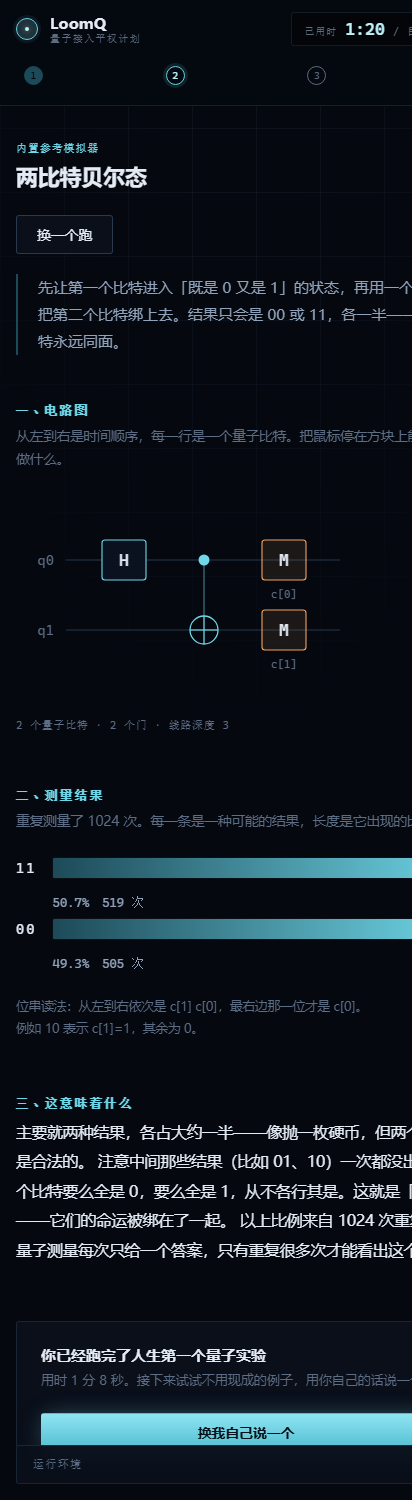
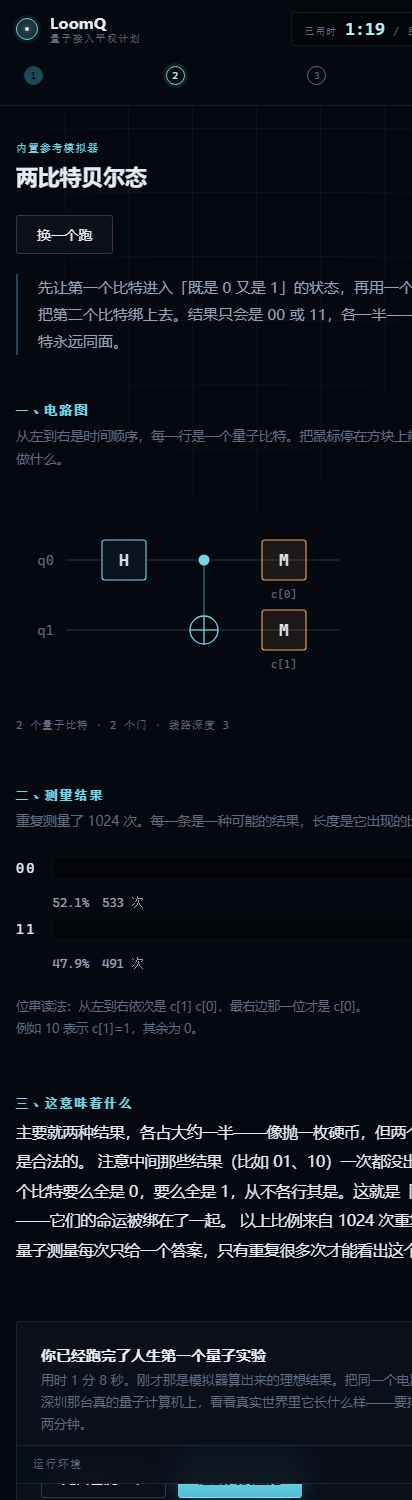
体验: 按实测反馈修真机入口，并把「这到底有什么用」写进产品
被试反馈两句话，都指向真缺陷。

一句是「真机的跑不了」。后端其实是通的（复现任务 G-260810-0012）。
问题在结果页那条死板的直线：必须先完成「自己说一个」，真机按钮才肯出现，
在那之前只能自己翻开右下角折叠着的「运行环境」换后端。
判据里「在真实量子机上完成」是硬指标，通往它的路不该藏在二级菜单。
现在跑完第一个示例真机按钮就排在首位，另给一个次级按钮不挡别的路。
排队那两分钟也不再一声不吭——加了秒表，证明页面还活着。

另一句是「还是没懂在干什么」。这是产品的判决，不是用户的问题：
页面从头到尾没说过自己是什么。开场补一段可展开的定位，
验收之后补一整块结语，讲清这条链路上原本每一环都要什么专门知识，
以及一句实话——今天的量子计算机还派不上用场，这件作品的价值
是证明路走得通，不是让谁今天就用它干成活。
把话说在验收之后，是因为此刻他有亲手做过的经验垫底才接得住。

selftest_web.py 62 项仍全过。

diff --git a/starter_kit/loomq/webui/app.js b/starter_kit/loomq/webui/app.js
@@ -215,12 +215,32 @@ async function run(payload, titleHint) {
   }
   if (started.error) return fail(started.error);
 
+  // 真机排队要一两分钟，这期间后端一句进度也不会再吐。没有任何动静的
+  // 一百秒足以让人认为页面死了然后关掉——被试就是这么丢掉真机那一步的。
+  // 秒表本身不提供信息，但它证明这个页面还活着。
+  const t0 = Date.now();
+  const waitBox = $('running-wait');
+  waitBox.hidden = body.backend !== 'spinq_cloud';
+  const tick = setInterval(() => {
+    const s = Math.floor((Date.now() - t0) / 1000);
+    waitBox.textContent = `已等待 ${s} 秒　排队通常一到两分钟，页面会一直等，不用关`;
+  }, 1000);
+
+  try {
+    return await pollUntilDone(started.job);
+  } finally {
+    clearInterval(tick);
+    waitBox.hidden = true;
+  }
+}
+
+async function pollUntilDone(jobId) {
   let seen = 0;
   for (;;) {
     await wait(700);
     let job;
     try {
-      job = await api.job(started.job);
+      job = await api.job(jobId);
     } catch {
       return fail('取不到运行状态，本地服务可能已经停了。');
     }
@@ -295,35 +315,63 @@ function show(r) {
   paintRail();
 }
 
-/* 每次跑完都要有明确的下一步，否则用户就停在这里了 */
+/* 每次跑完都要有明确的下一步，否则用户就停在这里了。
+ *
+ * 这里曾经是一条死板的直线：必须先「自己说一个」，真机按钮才肯出现。
+ * 结果被试跑完示例想去真机，界面根本不给入口——他只能自己翻右下角那个
+ * 折叠着的「运行环境」去换后端。实测反馈就是一句「真机的跑不了」。
+ * 判据里「在真实量子机上完成」是硬指标，通往它的路不能藏在二级菜单里。
+ */
 function paintNext() {
   const hwReady = state.backends.some((b) => b.id === 'spinq_cloud' && b.ready);
   const btn = $('btn-next');
+  const alt = $('btn-alt');
+  alt.hidden = true;
+
+  const toHardware = () => {
+    $('sel-backend').value = 'spinq_cloud';
+    updateDockNote();
+    // 重放上一次的 payload，而不是拿标题回头再问一遍模型——
+    // 真机对照要成立，两边必须是同一个电路。
+    run(state.lastPayload || { example: '1' }, '正在送往真实的量子计算机');
+  };
+  const toAsk = () => go('ask');
+  const toQuiz = () => { buildQuiz(); go('quiz'); };
+
+  const setAlt = (label, fn) => {
+    alt.hidden = false;
+    alt.textContent = label;
+    alt.onclick = fn;
+  };
+
+  if (hwReady && !state.ranHardware) {
+    $('next-title').textContent = state.ran === 1
+      ? '你已经跑完了人生第一个量子实验'
+      : '到这里为止，跑的都是模拟器';
+    $('next-note').textContent =
+      `用时 ${elapsedText()}。刚才那是模拟器算出来的理想结果。` +
+      '把同一个电路送到深圳那台真的量子计算机上，看看真实世界里它长什么样——要排队约两分钟。';
+    btn.textContent = '送到真机上跑';
+    btn.onclick = toHardware;
+    setAlt(state.askedOwn ? '去验收' : '先自己说一个', state.askedOwn ? toQuiz : toAsk);
+    return;
+  }
 
   if (!state.askedOwn) {
-    $('next-title').textContent = '你已经跑完了人生第一个量子实验';
+    $('next-title').textContent = state.ranHardware
+      ? '真机你也跑过了'
+      : '你已经跑完了人生第一个量子实验';
     $('next-note').textContent = `用时 ${elapsedText()}。接下来试试不用现成的例子，用你自己的话说一个。`;
     btn.textContent = '换我自己说一个';
-    btn.onclick = () => go('ask');
+    btn.onclick = toAsk;
+    setAlt('直接去验收', toQuiz);
     return;
   }
-  if (hwReady && !state.ranHardware) {
-    $('next-title').textContent = '到这里为止，跑的都是模拟器';
-    $('next-note').textContent = '把同一个电路送到深圳那台真的量子计算机上，看看结果差在哪。要排队约两分钟。';
-    btn.textContent = '送到真机上跑';
-    btn.onclick = () => {
-      $('sel-backend').value = 'spinq_cloud';
-      updateDockNote();
-      // 重放上一次的 payload，而不是拿标题回头再问一遍模型——
-      // 真机对照要成立，两边必须是同一个电路。
-      run(state.lastPayload || { example: '1' }, '正在送往真实的量子计算机');
-    };
-    return;
-  }
+
   $('next-title').textContent = '最后一步';
   $('next-note').textContent = '三个问题，检验一下刚才发生的事你是不是真的看懂了。';
   btn.textContent = '去验收';
-  btn.onclick = () => { buildQuiz(); go('quiz'); };
+  btn.onclick = toQuiz;
 }
 
 /* ── 电路图 ─────────────────────────────────────────── */

diff --git a/starter_kit/loomq/webui/index.html b/starter_kit/loomq/webui/index.html
@@ -72,6 +72,19 @@
         <button class="btn btn--primary btn--lg" id="btn-start">读完了，开始计时</button>
         <span class="intro__hint" id="intro-hint">计时只是为了验证「五分钟够不够」，随时可以停</span>
       </div>
+
+      <details class="aside">
+        <summary>顺便一提，LoomQ 是什么</summary>
+        <p>
+          全世界的量子计算机分属好几家，每家说自己的语言——为量旋那台机器写的程序，
+          换到本源或者亚马逊的机器上要整个重写。LoomQ 是夹在中间的那层翻译：
+          一份代码进去，自动翻成三家各自的方言，结果按同一种格式回来。
+        </p>
+        <p>
+          再往上加一层：你用中文说一句话，它变成电路、跑起来，再用人话告诉你结果什么意思。
+          这个页面就是那层东西的入口。跑完最后一步，我会再跟你说一遍你到底做了什么。
+        </p>
+      </details>
     </div>
   </section>
 
@@ -90,6 +103,7 @@
     <div class="running" id="running">
       <div class="running__spin" aria-hidden="true"></div>
       <b id="running-title">正在运行</b>
+      <div class="running__wait" id="running-wait" hidden></div>
       <ul class="running__log" id="running-log"></ul>
     </div>
 
@@ -130,7 +144,10 @@
           <b id="next-title">下一步</b>
           <span id="next-note"></span>
         </div>
-        <button class="btn btn--primary" id="btn-next"></button>
+        <div class="nextbar__act">
+          <button class="btn" id="btn-alt" hidden></button>
+          <button class="btn btn--primary" id="btn-next"></button>
+        </div>
       </div>
     </div>
   </section>
@@ -159,6 +176,31 @@
     <div id="quiz"></div>
     <div class="quizfoot" id="quiz-foot" hidden>
       <p class="prose" id="quiz-verdict"></p>
+
+      <section class="coda">
+        <h3 class="coda__title">所以你刚才做的是什么</h3>
+        <p class="prose">
+          你没写一行代码。你说了一句中文，换来一个真实的量子电路；它被送进一台真的
+          量子计算机，两分钟后带回一串数据；页面告诉你哪些是电路本该给出的，
+          哪些是机器自己抖出来的噪声。
+        </p>
+        <p class="prose">
+          这条链路上，原本每一环都要专门知识：懂量子力学才写得出电路，
+          懂各家 SDK 才提交得了任务，懂实验物理才读得懂噪声。
+          LoomQ 做的事，就是把这三道门槛收进这一个页面。
+        </p>
+        <p class="prose coda__blunt">
+          说句实话：今天的量子计算机还派不上用场。你刚才连的那台只有两个量子比特，
+          跑最简单的电路都要错掉两成。它现在的处境像 1950 年代占满一整间屋子的
+          电子管计算机——原理成立，工程上还差得远。真正指望它的方向是模拟分子
+          （算新药、新材料）、密码学和某些优化问题，一个都还没到能用的地步。
+        </p>
+        <p class="prose">
+          所以这件作品的价值不在于让你今天就用量子机干成什么活，而在于证明这条路走得通：
+          等这些机器真的能用了，门口不该只站着物理博士。
+        </p>
+      </section>
+
       <button class="btn btn--primary btn--lg" id="btn-cert">生成完成凭证</button>
     </div>
   </section>

diff --git a/starter_kit/loomq/webui/styles.css b/starter_kit/loomq/webui/styles.css
@@ -261,6 +261,11 @@ main { position: relative; z-index: 1; }
 }
 @keyframes spin { to { transform: rotate(360deg); } }
 .running b { display: block; font-size: 16px; font-weight: 520; }
+.running__wait {
+  margin-top: calc(var(--s) * 4);
+  font-family: var(--mono); font-size: 12px; letter-spacing: 0.04em;
+  color: var(--warm);
+}
 .running__log {
   list-style: none; margin: calc(var(--s) * 6) auto 0; padding: 0;
   max-width: 52ch; text-align: left;
@@ -344,7 +349,8 @@ main { position: relative; z-index: 1; }
   background: var(--bg-lift);
 }
 .nextbar b { display: block; font-size: 15px; font-weight: 560; margin-bottom: calc(var(--s) * 1); }
-.nextbar span { font-size: 13px; color: var(--text-faint); }
+.nextbar span { font-size: 13px; line-height: 1.7; color: var(--text-faint); }
+.nextbar__act { display: flex; gap: calc(var(--s) * 3); flex-shrink: 0; }
 
 /* ── 提问 ─────────────────────────────────────────────── */
 
@@ -396,7 +402,50 @@ main { position: relative; z-index: 1; }
   font-size: 14px; line-height: 1.8; color: var(--text-dim);
 }
 .quizfoot { margin-top: calc(var(--s) * 8); padding-top: calc(var(--s) * 8); border-top: 1px solid var(--line); }
-.quizfoot .prose { margin-bottom: calc(var(--s) * 7); }
+.quizfoot > .prose { margin-bottom: calc(var(--s) * 7); }
+
+/* 结语。被试跑完全程还是问「这到底有什么用」——体验本身答不了这个问题，
+ * 得有人把话说出来。放在验收之后，是因为此刻他有了亲手做过的经验垫底，
+ * 这段话才接得住；放在开场只会变成没人读的宣传语。 */
+.coda {
+  margin: 0 0 calc(var(--s) * 10);
+  padding: calc(var(--s) * 8);
+  border: 1px solid var(--line);
+  border-left: 2px solid var(--cyan);
+  border-radius: var(--radius);
+  background: linear-gradient(150deg, rgba(111, 215, 232, 0.045), transparent 60%);
+}
+.coda__title {
+  margin: 0 0 calc(var(--s) * 5);
+  font-size: 19px; font-weight: 600; letter-spacing: -0.01em;
+}
+.coda .prose { margin-bottom: calc(var(--s) * 5); font-size: 15px; }
+.coda .prose:last-child { margin-bottom: 0; }
+.coda__blunt { color: var(--text-dim); }
+
+/* 开场那段「LoomQ 是什么」。默认收起：零基础用户此刻只想快点开始，
+ * 但想知道自己在用什么的人得有地方看。 */
+.aside {
+  margin-top: calc(var(--s) * 12);
+  padding-top: calc(var(--s) * 6);
+  border-top: 1px solid var(--line-soft);
+  max-width: 68ch;
+}
+.aside summary {
+  cursor: pointer; list-style: none;
+  font-family: var(--mono); font-size: 11.5px; letter-spacing: 0.1em;
+  color: var(--text-faint);
+  transition: color 0.18s;
+}
+.aside summary::-webkit-details-marker { display: none; }
+.aside summary::before { content: '＋　'; color: var(--cyan); }
+.aside[open] summary::before { content: '－　'; }
+.aside summary:hover { color: var(--cyan); }
+.aside p {
+  margin: calc(var(--s) * 5) 0 0;
+  font-size: 14.5px; line-height: 1.85; color: var(--text-dim);
+  text-wrap: pretty;
+}
 
 /* ── 侧栏 ─────────────────────────────────────────────── */
 
